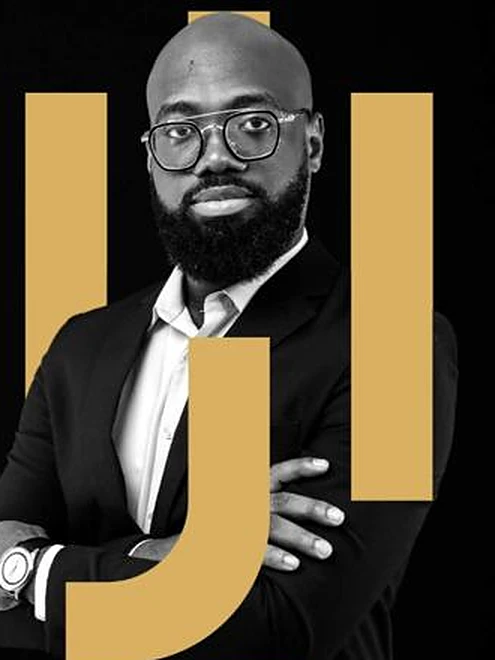
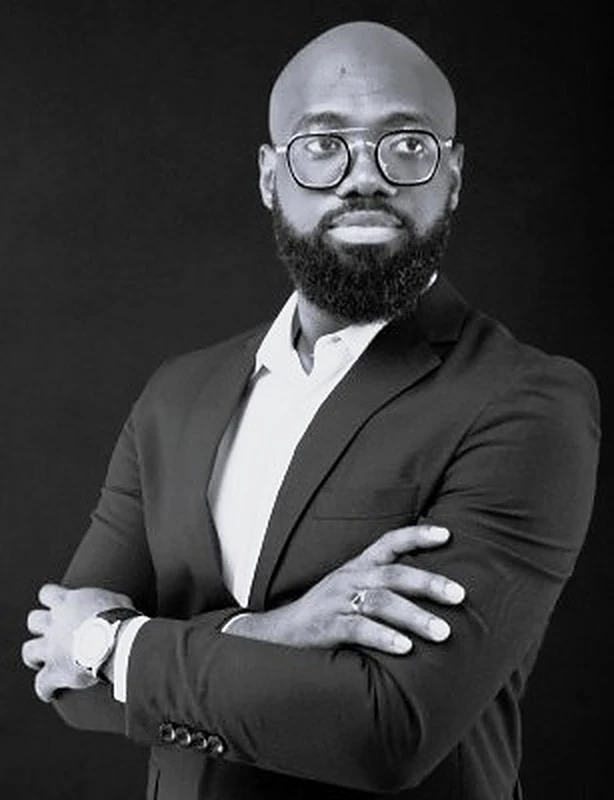
feat(hero): nome com efeito de autocompletar, botão 3D para a direita e nova foto no scroll

diff --git a/src/index.css b/src/index.css
@@ -192,7 +192,7 @@
 }
 
 /*
- * Botão secundário do Hero: ao passar o rato, levanta-se e ganha profundidade
+ * Botão secundário do Hero: ao passar o rato, desloca-se para a direita, levanta-se e ganha profundidade
  * (camadas de sombra em dourado escuro formam a lateral do bloco 3D), com
  * um brilho que atravessa a face. Entrada e saída suaves.
  */
@@ -238,16 +238,16 @@
   background-color: var(--gold);
   border-color: var(--gold);
   color: var(--ink);
-  transform: perspective(600px) translate3d(-6px, -6px, 0) rotateX(6deg)
-    rotateY(-6deg);
+  transform: perspective(600px) translate3d(6px, -6px, 0) rotateX(6deg)
+    rotateY(6deg);
   box-shadow:
-    1px 1px 0 var(--btn-depth),
-    2px 2px 0 var(--btn-depth),
-    3px 3px 0 var(--btn-depth),
-    4px 4px 0 var(--btn-depth),
-    5px 5px 0 var(--btn-depth),
-    6px 6px 0 var(--btn-depth),
-    16px 18px 24px -6px rgb(0 0 0 / 0.6);
+    -1px 1px 0 var(--btn-depth),
+    -2px 2px 0 var(--btn-depth),
+    -3px 3px 0 var(--btn-depth),
+    -4px 4px 0 var(--btn-depth),
+    -5px 5px 0 var(--btn-depth),
+    -6px 6px 0 var(--btn-depth),
+    -16px 18px 24px -6px rgb(0 0 0 / 0.6);
 }
 .btn-3d:hover::before,
 .btn-3d:focus-visible::before {
@@ -255,16 +255,16 @@
 }
 /* Ao clicar, o bloco "afunda" */
 .btn-3d:active {
-  transform: perspective(600px) translate3d(-2px, -2px, 0) rotateX(2deg)
-    rotateY(-2deg);
+  transform: perspective(600px) translate3d(2px, -2px, 0) rotateX(2deg)
+    rotateY(2deg);
   box-shadow:
-    1px 1px 0 var(--btn-depth),
-    2px 2px 0 var(--btn-depth),
+    -1px 1px 0 var(--btn-depth),
+    -2px 2px 0 var(--btn-depth),
     0 0 0 var(--btn-depth),
     0 0 0 var(--btn-depth),
     0 0 0 var(--btn-depth),
     0 0 0 var(--btn-depth),
-    6px 8px 12px -6px rgb(0 0 0 / 0.5);
+    -6px 8px 12px -6px rgb(0 0 0 / 0.5);
   transition-duration: 0.12s;
 }
 @media (prefers-reduced-motion: reduce) {
@@ -336,4 +336,28 @@ html {
     linear-gradient(to right, transparent 0, black 10%, black 88%, transparent 100%),
     linear-gradient(to bottom, transparent 0, black 6%, black 85%, transparent 100%);
   mask-composite: intersect;
+}
+
+/* Cursor do nome escrito no Hero */
+.typed-caret {
+  display: inline-block;
+  width: 0.08em;
+  height: 0.85em;
+  margin-left: 0.06em;
+  vertical-align: -0.05em;
+  background: var(--gold);
+  animation: caret-blink 1s steps(1) infinite;
+}
+.typed-caret.is-done {
+  animation: caret-blink 1s steps(1) 3 forwards, caret-hide 0s 3s forwards;
+}
+@keyframes caret-hide {
+  to {
+    opacity: 0;
+  }
+}
+@media (prefers-reduced-motion: reduce) {
+  .typed-caret {
+    display: none;
+  }
 }

diff --git a/src/components/TypedName.tsx b/src/components/TypedName.tsx
@@ -1,0 +1,57 @@
+import { useEffect, useState } from "react"
+
+const reducedMotion = () =>
+  typeof window !== "undefined" &&
+  window.matchMedia("(prefers-reduced-motion: reduce)").matches
+
+/**
+ * Nome escrito letra a letra (efeito de autocompletar), com cursor a piscar.
+ * O nome completo fica reservado de forma invisível para o layout não saltar,
+ * e os leitores de ecrã leem-no de uma vez.
+ */
+export function TypedName({
+  first,
+  last,
+  speed = 110,
+  startDelay = 400,
+}: {
+  first: string
+  last: string
+  speed?: number
+  startDelay?: number
+}) {
+  const full = `${first} ${last}`
+  const [count, setCount] = useState(() => (reducedMotion() ? full.length : 0))
+
+  useEffect(() => {
+    if (reducedMotion()) return
+    let timer: ReturnType<typeof setTimeout>
+    const step = (n: number) => {
+      setCount(n)
+      if (n < full.length) timer = setTimeout(() => step(n + 1), speed)
+    }
+    timer = setTimeout(() => step(1), startDelay)
+    return () => clearTimeout(timer)
+  }, [full, speed, startDelay])
+
+  const typedFirst = full.slice(0, Math.min(count, first.length))
+  const typedLast = count > first.length + 1 ? full.slice(first.length + 1, count) : ""
+  const space = count > first.length ? " " : ""
+  const done = count >= full.length
+
+  return (
+    <span className="relative inline-grid" aria-label={full} role="text">
+      {/* Reserva o espaço do nome completo */}
+      <span aria-hidden className="invisible col-start-1 row-start-1">
+        {first} {last}
+        <span className="typed-caret" />
+      </span>
+      <span aria-hidden className="col-start-1 row-start-1">
+        {typedFirst}
+        {space}
+        <span className="text-gold">{typedLast}</span>
+        <span className={`typed-caret ${done ? "is-done" : ""}`} />
+      </span>
+    </span>
+  )
+}

diff --git a/src/components/sections/Hero.tsx b/src/components/sections/Hero.tsx
@@ -1,5 +1,6 @@
 import { ArrowRight, ShieldCheck } from "lucide-react"
 
+import { TypedName } from "@/components/TypedName"
 import { useSiteContent } from "@/content/SiteContent"
 
 export function Hero() {
@@ -22,7 +23,7 @@ export function Hero() {
             <ShieldCheck className="size-3.5" /> {person.badge}
           </span>
           <h1 className="mt-5 text-5xl leading-[1.02] font-extrabold tracking-tight sm:text-6xl lg:text-7xl">
-            {person.firstName} <span className="text-gold">{person.lastName}</span>
+            <TypedName first={person.firstName} last={person.lastName} />
           </h1>
           <p className="mt-5 max-w-md text-xl font-medium text-silver">
             {person.tagline}
